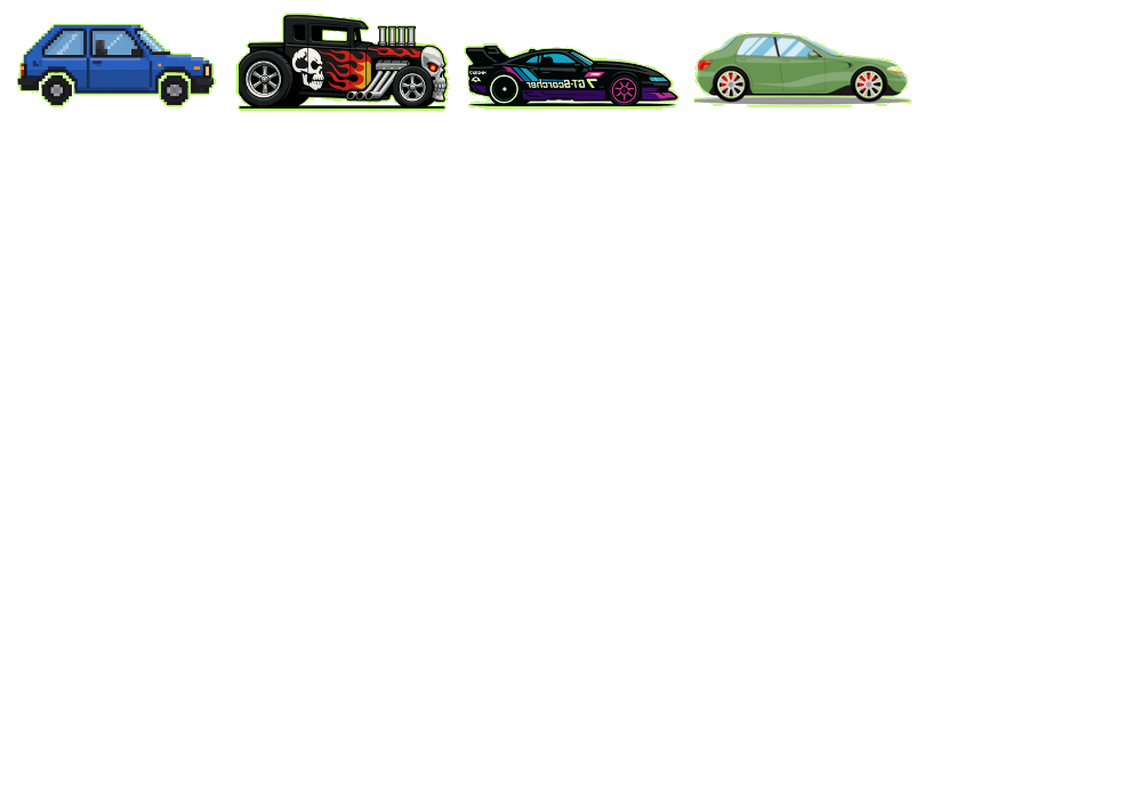
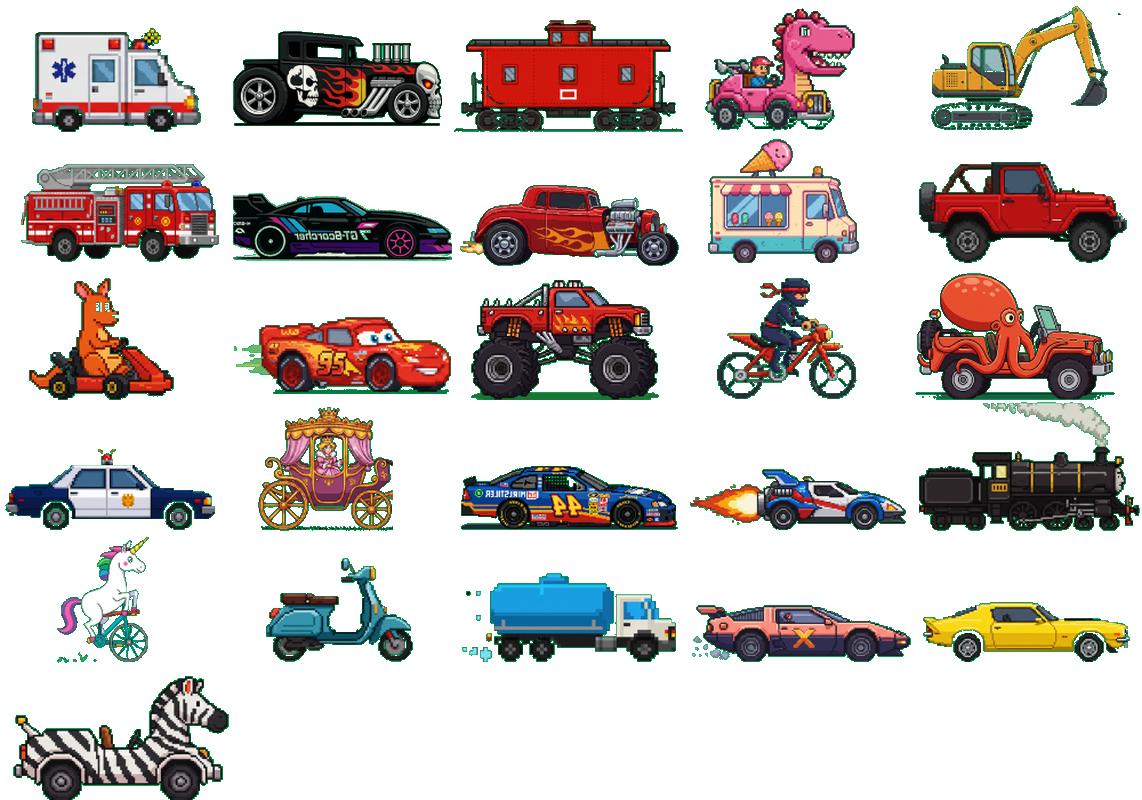
{completed cars spritesheet}

diff --git a/index.html b/index.html
@@ -1,99 +1,133 @@
 <!DOCTYPE html>
 <html lang="en">
-<head>
-  <meta charset="UTF-8" />
-  <meta name="viewport" content="width=device-width, initial-scale=1.0"/>
-  <title>Racing Game - Home</title>
-  <link rel="stylesheet" href="styles/index.css">
-</head>
-<body>
 
-  <h1>Select Your Car and Background</h1>
+  <head>
+    <meta charset="UTF-8" />
+    <meta name="viewport" content="width=device-width, initial-scale=1.0" />
+    <title>Racing Game - Home</title>
+    <link rel="stylesheet" href="styles/index.css">
+  </head>
+
+  <body>
+
+    <h1>Select Your Car and Background</h1>
 
 
-  <h2>Choose a Car</h2>
+    <h2>Choose a Car</h2>
     <div id="carOptions" class="selection-grid"></div>
 
-  <h2>Choose a Background</h2>
-  <div id="bgOptions" class="selection-grid">
-    <div class="option" data-bg="city.png"><img src="images/backgrounds/city.png" alt="City"></div>
-    <div class="option" data-bg="desert.png"><img src="images/backgrounds/desert.png" alt="Desert"></div>
-    <div class="option" data-bg="forest.png"><img src="images/backgrounds/forest.png" alt="forest"></div>
-  </div>
+    <h2>Choose a Background</h2>
+    <div id="bgOptions" class="selection-grid">
+      <div class="option" data-bg="city.png"><img src="images/backgrounds/city.png" alt="City"></div>
+      <div class="option" data-bg="desert.png"><img src="images/backgrounds/desert.png" alt="Desert"></div>
+      <div class="option" data-bg="forest.png"><img src="images/backgrounds/forest.png" alt="forest"></div>
+    </div>
 
-  <button id="startBtn">Start Game</button>
+    <button id="startBtn">Start Game</button>
 
-<script>
-  let selectedCarCol = null;
-  let selectedCarRow = null;
-  let selectedBG = null;
+    <script>
+      let selectedCarCol = null;
+      let selectedCarRow = null;
+      let selectedBG = null;
 
-  const spriteSheet = new Image();
-  spriteSheet.src = 'images/cars/cars.png';
-
-  const columns = 5;
-  const rows = 6;
-  const spriteWidth = 1142 / columns;
-  const spriteHeight = 800 / rows;
-
-  const carOptionsContainer = document.getElementById('carOptions');
-
-  spriteSheet.onload = () => {
-    for (let row = 0; row < rows; row++) {
-      for (let col = 0; col < columns; col++) {
-        const canvas = document.createElement('canvas');
-        canvas.width = spriteWidth;
-        canvas.height = spriteHeight;
-
-        const ctx = canvas.getContext('2d');
-        ctx.drawImage(
-          spriteSheet,
-          col * spriteWidth, row * spriteHeight,
-          spriteWidth, spriteHeight,
-          0, 0,
-          spriteWidth, spriteHeight
-        );
-
-        canvas.classList.add('option');
-        canvas.dataset.carCol = col;
-        canvas.dataset.carRow = row;
-
-        canvas.addEventListener('click', () => {
-          // Remove previous selections
-          document.querySelectorAll('#carOptions .option').forEach(o => o.classList.remove('selected'));
-          canvas.classList.add('selected');
-
-          selectedCarCol = col;
-          selectedCarRow = row;
-        });
-
-        carOptionsContainer.appendChild(canvas);
+      const cars = ['ambulance', 'boneshaker', 'caboose', 'dinosaur_car',
+        'excavator', 'firetruck', 'gt_scorcher', 'hotrod', 'ice_creame_truck',
+        'jeep', 'kangaroo_kart', 'lightning_mcqueen', 'monster_truck', 'ninja_bike',
+        'octupus_jeep', 'police_car', 'racecar', 'super_fast_car', 'train', 'unicorn_unicycle',
+        'vespa', 'water_truck', 'x_car', 'yellow_car', 'zebra_zoomer']
+      
+      function capitalizeFirstLetter(str) {
+        return str.charAt(0).toUpperCase() + str.slice(1);
       }
-    }
-  };
+      
+      const spriteSheet = new Image();
+      spriteSheet.src = 'images/cars/cars.png';
 
-  // Background selection
-  document.querySelectorAll('#bgOptions .option').forEach(opt => {
-    opt.addEventListener('click', () => {
-      document.querySelectorAll('#bgOptions .option').forEach(o => o.classList.remove('selected'));
-      opt.classList.add('selected');
-      selectedBG = opt.dataset.bg;
-    });
-  });
+      const columns = 5;
+      const rows = 6;
+      const spriteWidth = 1142 / columns;
+      const spriteHeight = 800 / rows;
 
-  // Start button
-  document.getElementById('startBtn').addEventListener('click', () => {
-    if (selectedCarCol !== null && selectedCarRow !== null && selectedBG) {
-      localStorage.setItem('selectedCarCol', selectedCarCol);
-      localStorage.setItem('selectedCarRow', selectedCarRow);
-      localStorage.setItem('selectedBG', selectedBG);
-      window.location.href = 'game.html';
-    } else {
-      alert('Please select both a car and a background!');
-    }
-  });
-</script>
+      const carOptionsContainer = document.getElementById('carOptions');
+
+      spriteSheet.onload = () => {
+        for (let row = 0; row < rows; row++) {
+          for (let col = 0; col < columns; col++) {
+            // Calculate the index for the cars array
+            const carIndex = row * columns + col;
+
+            // Ensure we don't go out of bounds of the cars array
+            if (carIndex >= cars.length) {
+              break; // Stop if we've displayed all cars
+            }
+
+            // Create a container div for each car option (image + name)
+            const carOptionDiv = document.createElement('div');
+            carOptionDiv.classList.add('option'); // Keep the 'option' class for styling
+            carOptionDiv.dataset.carCol = col;
+            carOptionDiv.dataset.carRow = row;
 
 
-</body>
+            const canvas = document.createElement('canvas');
+            canvas.width = spriteWidth;
+            canvas.height = spriteHeight;
+
+            const ctx = canvas.getContext('2d');
+            ctx.drawImage(
+              spriteSheet,
+              col * spriteWidth, row * spriteHeight,
+              spriteWidth, spriteHeight,
+              0, 0,
+              spriteWidth, spriteHeight
+            );
+
+            // Create a paragraph for the car name
+            const carNameP = document.createElement('p');
+            carNameP.textContent = capitalizeFirstLetter(cars[carIndex].replace(/_/g, ' ')); // Get name from array and replace underscores
+            carNameP.classList.add('car-name'); // Add a class for potential styling
+
+
+            // Append canvas and name to the carOptionDiv
+            carOptionDiv.appendChild(canvas);
+            carOptionDiv.appendChild(carNameP);
+
+            carOptionDiv.addEventListener('click', () => {
+              // Remove previous selections
+              document.querySelectorAll('#carOptions .option').forEach(o => o.classList.remove('selected'));
+              carOptionDiv.classList.add('selected'); // Apply selected class to the parent div
+
+              selectedCarCol = col;
+              selectedCarRow = row;
+            });
+
+            carOptionsContainer.appendChild(carOptionDiv);
+          }
+        }
+      };
+
+      // Background selection
+      document.querySelectorAll('#bgOptions .option').forEach(opt => {
+        opt.addEventListener('click', () => {
+          document.querySelectorAll('#bgOptions .option').forEach(o => o.classList.remove('selected'));
+          opt.classList.add('selected');
+          selectedBG = opt.dataset.bg;
+        });
+      });
+
+      // Start button
+      document.getElementById('startBtn').addEventListener('click', () => {
+        if (selectedCarCol !== null && selectedCarRow !== null && selectedBG) {
+          localStorage.setItem('selectedCarCol', selectedCarCol);
+          localStorage.setItem('selectedCarRow', selectedCarRow);
+          localStorage.setItem('selectedBG', selectedBG);
+          window.location.href = 'game.html';
+        } else {
+          alert('Please select both a car and a background!');
+        }
+      });
+    </script>
+
+
+  </body>
+
 </html>
